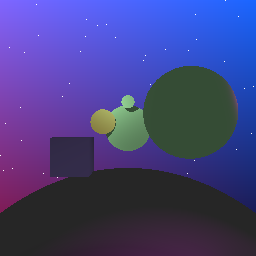
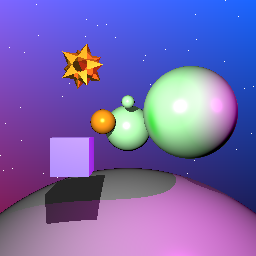
non-hier images

diff --git a/A4/A4.cpp b/A4/A4.cpp
@@ -10,7 +10,7 @@ const uint MAX_HITS = 1;
 const uint NUM_SAMPLES = 1;
 const uint NUM_SAMPLES_EACH_DIR = (uint)glm::sqrt(NUM_SAMPLES);
 
-const double EPSILON = 0.001;
+const double EPSILON = 0.0001;
 const glm::vec3 ZERO_VECTOR3 = glm::vec3(0.0,0.0,0.0);
 
 double deg_to_rad(double deg) {
@@ -62,6 +62,7 @@ Intersection intersect(glm::vec3 a, glm::vec3 b, SceneNode *node) {
 	if (node->m_nodeType != NodeType::GeometryNode) return Intersection();
 	GeometryNode *geo_node = (GeometryNode *)node;
 	Intersection i =  Intersection(geo_node->m_primitive->intersection(a, b), geo_node);
+	i.local_intersection = ray_point_at_parameter(a,b,i.t);
 	if (!i.has_intersected || i.t < EPSILON) i = Intersection();
 	return i;
 }
@@ -100,6 +101,8 @@ glm::vec3 direct_light(const glm::vec3 &p, const glm::vec3 &N, Light *light, Sce
 	}
 
 	double dist = glm::length(surface_to_light);
+
+	//std::cout << glm::dot(glm::normalize(surface_to_light), N) << std::endl;
 
 	return light->colour * (glm::dot(glm::normalize(surface_to_light), N)) / 
 		   (light->falloff[0] + light->falloff[1]*dist + light->falloff[2]*dist*dist);
@@ -149,13 +152,41 @@ glm::vec3 get_color_of_intersection(Intersection intersection, glm::vec3 a, glm:
 
   	glm::vec3 col = ke + entrywise_multiply(kd, ambient); // ka = kd
 
+ 
   	glm::vec3 p = ray_point_at_parameter(a, b, intersection.t);
-  	
-  	glm::vec3 p_model = glm::vec3(intersection.invtrans * glm::vec4(p,1.0));
+/*
+  	if (isnan(p.x) || isnan(p.y) || isnan(p.z)) {
+  		std::cout << "p has nan" << std::endl;
+  	}
+ */ 	
+  	//std::cout << glm::to_string(intersection.invtrans) << std::endl;
+
+  	//glm::vec3 p_model = glm::vec3(intersection.invtrans * glm::vec4(p,1.0));
+
+	glm::vec3 p_model = intersection.local_intersection;
+
+	// if (isnan(p_model.x) || isnan(p_model.y) || isnan(p_model.z)) {
+ //  		std::cout << "p_model has nan" << std::endl;
+ //  	}
+
   	glm::vec3 N_model = intersection.node->m_primitive->get_normal_at_point(p_model);
 
-  	glm::vec3 N = glm::vec3(glm::transpose(intersection.invtrans) * glm::vec4(N_model,1.0));
-  	N = glm::normalize(N);
+  	// if (isnan(N_model.x) || isnan(N_model.y) || isnan(N_model.z)) {
+  	// 	std::cout << "N_model has nan" << std::endl;
+  	// }
+
+  	glm::vec3 N = glm::vec3(glm::transpose(intersection.invtrans) * glm::vec4(N_model, 1.0));
+  	if (!vector_equals(N, ZERO_VECTOR3)) {
+  		N = glm::normalize(N);
+  	}
+
+  	// if (isnan(N.x) || isnan(N.y) || isnan(N.z)) {
+  	// 	std::cout << "N has nan" << std::endl;
+  	// 	//std::cout << "p: " << glm::to_string(p) << std::endl;
+  	// 	std::cout << "p_model: " << glm::to_string(p_model) << std::endl;
+  	// 	std::cout << "N_model: " << glm::to_string(N_model) << std::endl;
+  	// 	std::cout << "N: " << glm::to_string(N) << std::endl;
+  	// }
 
   	if (!vector_equals(kd, ZERO_VECTOR3)) {
   		for (Light * light : lights) {

diff --git a/A4/Mesh.cpp b/A4/Mesh.cpp
@@ -53,35 +53,33 @@ glm::vec3 Mesh::triangle_norm(const Triangle & tri) {
 	glm::vec3 a = m_vertices.at(tri.v1);
 	glm::vec3 b = m_vertices.at(tri.v2);
 	glm::vec3 c = m_vertices.at(tri.v3);
-	return glm::normalize(glm::cross(b-a, c-a));
+	return glm::cross(b-a, c-a);
 }
 
 bool Mesh::point_on_triangle(glm::vec3 p, const Triangle & tri) {
 	glm::vec3 P0 = m_vertices.at(tri.v1);
 	glm::vec3 P1 = m_vertices.at(tri.v2);
 	glm::vec3 P2 = m_vertices.at(tri.v3);
-
+	
 	glm::vec3 C0 = P1-P0;
 	glm::vec3 C1 = P2-P0;
-	glm::vec3 R = p-P0;
+	glm::vec3 C2 = glm::vec3(0,0,1);
+	glm::vec3 R = p - P0;
 
-	// Solve the 2 equation system
-	double D = glm::determinant(glm::mat2(glm::vec2(C0),glm::vec2(C1)));
-	if (glm::abs(D) < EPSILON) return false;
+	double D = glm::determinant(glm::mat3(C0,C1,C2));
+	if (glm::abs(D) < EPSILON) return nan("");
 
-	double D0 = glm::determinant(glm::mat2(glm::vec2(R),glm::vec2(C1)));
-	double D1 = glm::determinant(glm::mat2(glm::vec2(C0),glm::vec2(R)));
+	double D0 = glm::determinant(glm::mat3(R,C1,C2));
+	double D1 = glm::determinant(glm::mat3(C0,R,C2));
 
 	double beta = D0 / D;
 	double gamma = D1 / D;
 
 	if (beta >= -EPSILON && gamma >= -EPSILON && beta + gamma - 1.0 <= EPSILON) {
-		// Check to see that we satisfy the third equation
-		if (glm::abs(beta * C0.z + gamma * C1.z - R.z) < EPSILON) {
-			return true;
-		}
+		return true;
+	} else {
+		return false;
 	}
-	return false;
 }
 
 double Mesh::triangle_intersection(const Triangle & tri, glm::vec3 a, glm::vec3 b) {

diff --git a/A4/A4.hpp b/A4/A4.hpp
@@ -32,13 +32,14 @@ struct Intersection {
 	double t; // the value to plug into parametric
 	GeometryNode *node; // what was hit
 	glm::mat4 invtrans;
+	glm::vec3 local_intersection;
 
-	Intersection(): has_intersected(false), t(nan("")), node(NULL), invtrans(glm::mat4()) {}
+	Intersection(): has_intersected(false), t(nan("")), node(NULL), invtrans(glm::mat4()), local_intersection(glm::vec3()) {}
 
 	Intersection(bool has_intersected, double t, GeometryNode *node)
-		: has_intersected(has_intersected), t(t), node(node), invtrans(glm::mat4()) {}
+		: has_intersected(has_intersected), t(t), node(node), invtrans(glm::mat4()), local_intersection(glm::vec3()) {}
 
-	Intersection(double t, GeometryNode *node): t(t), node(node), invtrans(glm::mat4()) {
+	Intersection(double t, GeometryNode *node): t(t), node(node), invtrans(glm::mat4()), local_intersection(glm::vec3()) {
 		has_intersected = isnan(t) ? false : true;
 	}
 };

diff --git a/A4/Primitive.cpp b/A4/Primitive.cpp
@@ -192,7 +192,7 @@ glm::vec3 Primitive::get_normal_at_point(glm::vec3 p) {
 }
 
 glm::vec3 Sphere::get_normal_at_point(glm::vec3 p) {
-	return glm::normalize(p);
+	return p;
 }
 
 glm::vec3 Cube::get_normal_at_point(glm::vec3 p) {
@@ -208,7 +208,7 @@ glm::vec3 Cube::get_normal_at_point(glm::vec3 p) {
 }
 
 glm::vec3 NonhierSphere::get_normal_at_point(glm::vec3 p) {
-	return glm::normalize(p - m_pos);
+	return p - m_pos;
 }
 
 glm::vec3 NonhierBox::get_normal_at_point(glm::vec3 p) {
